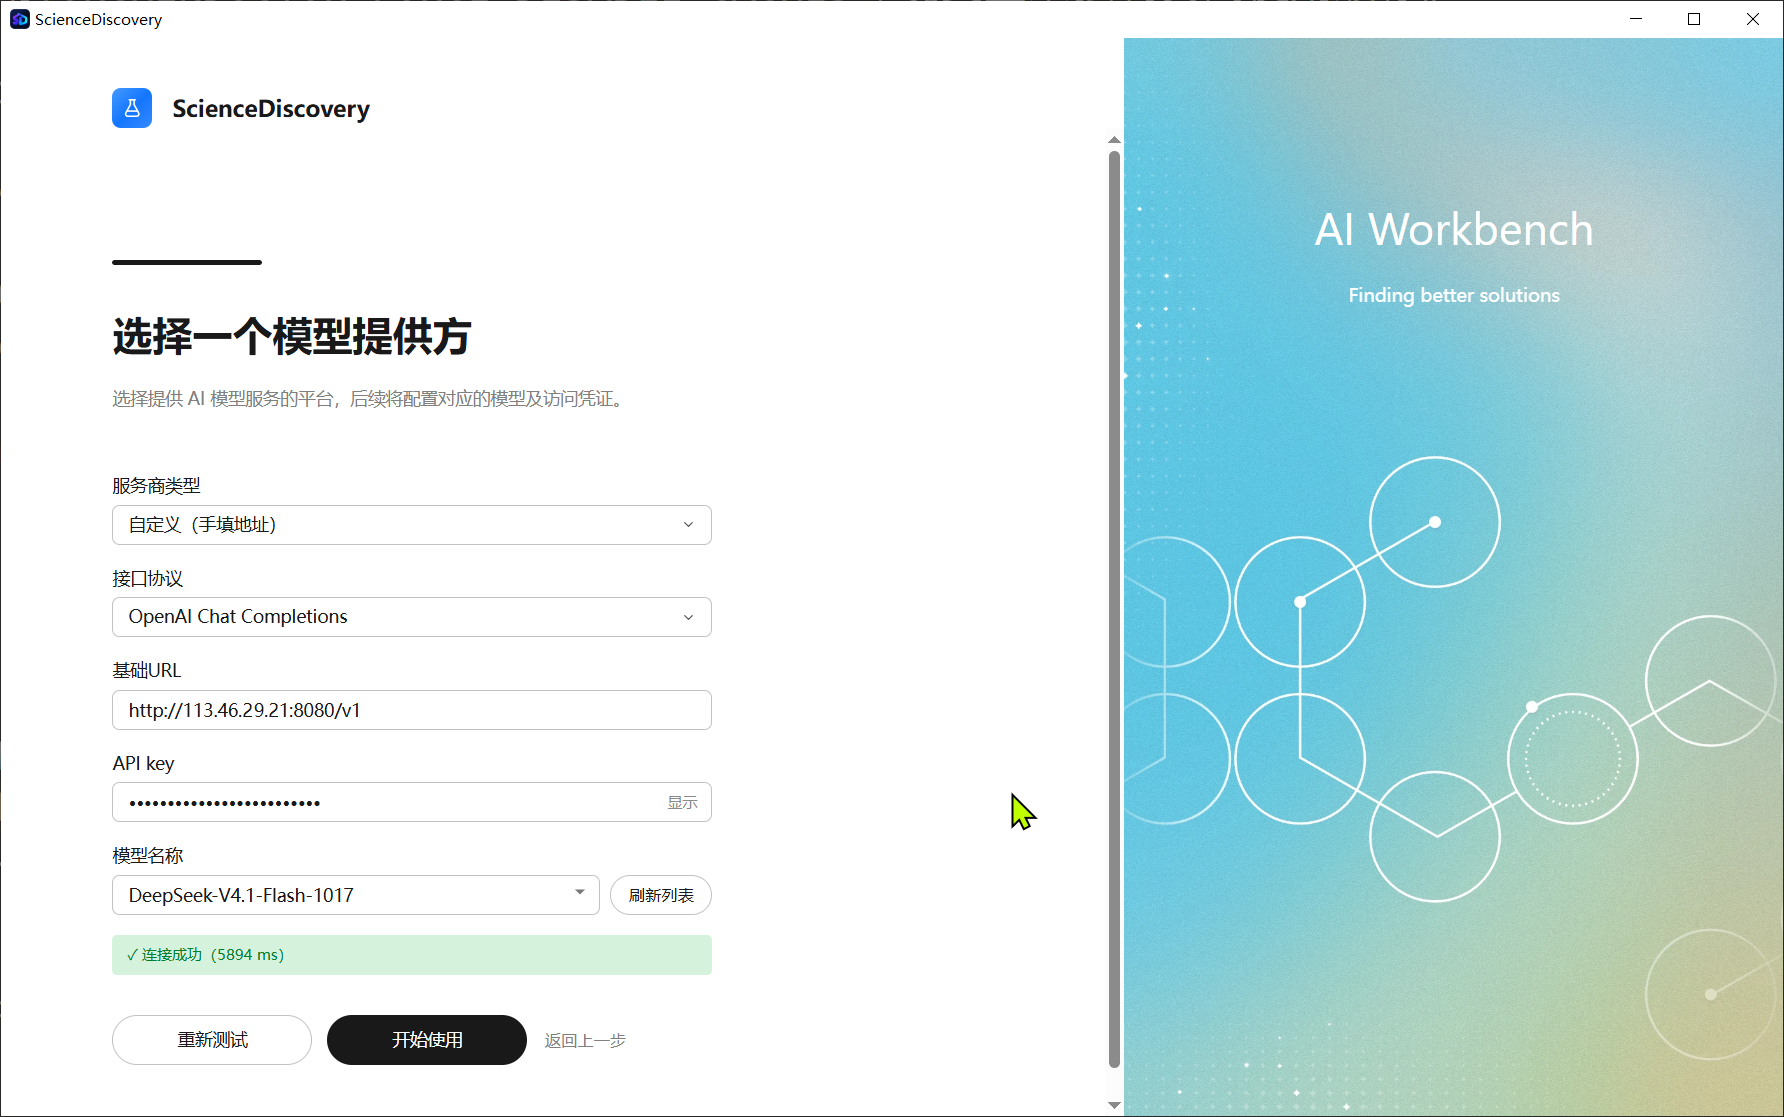
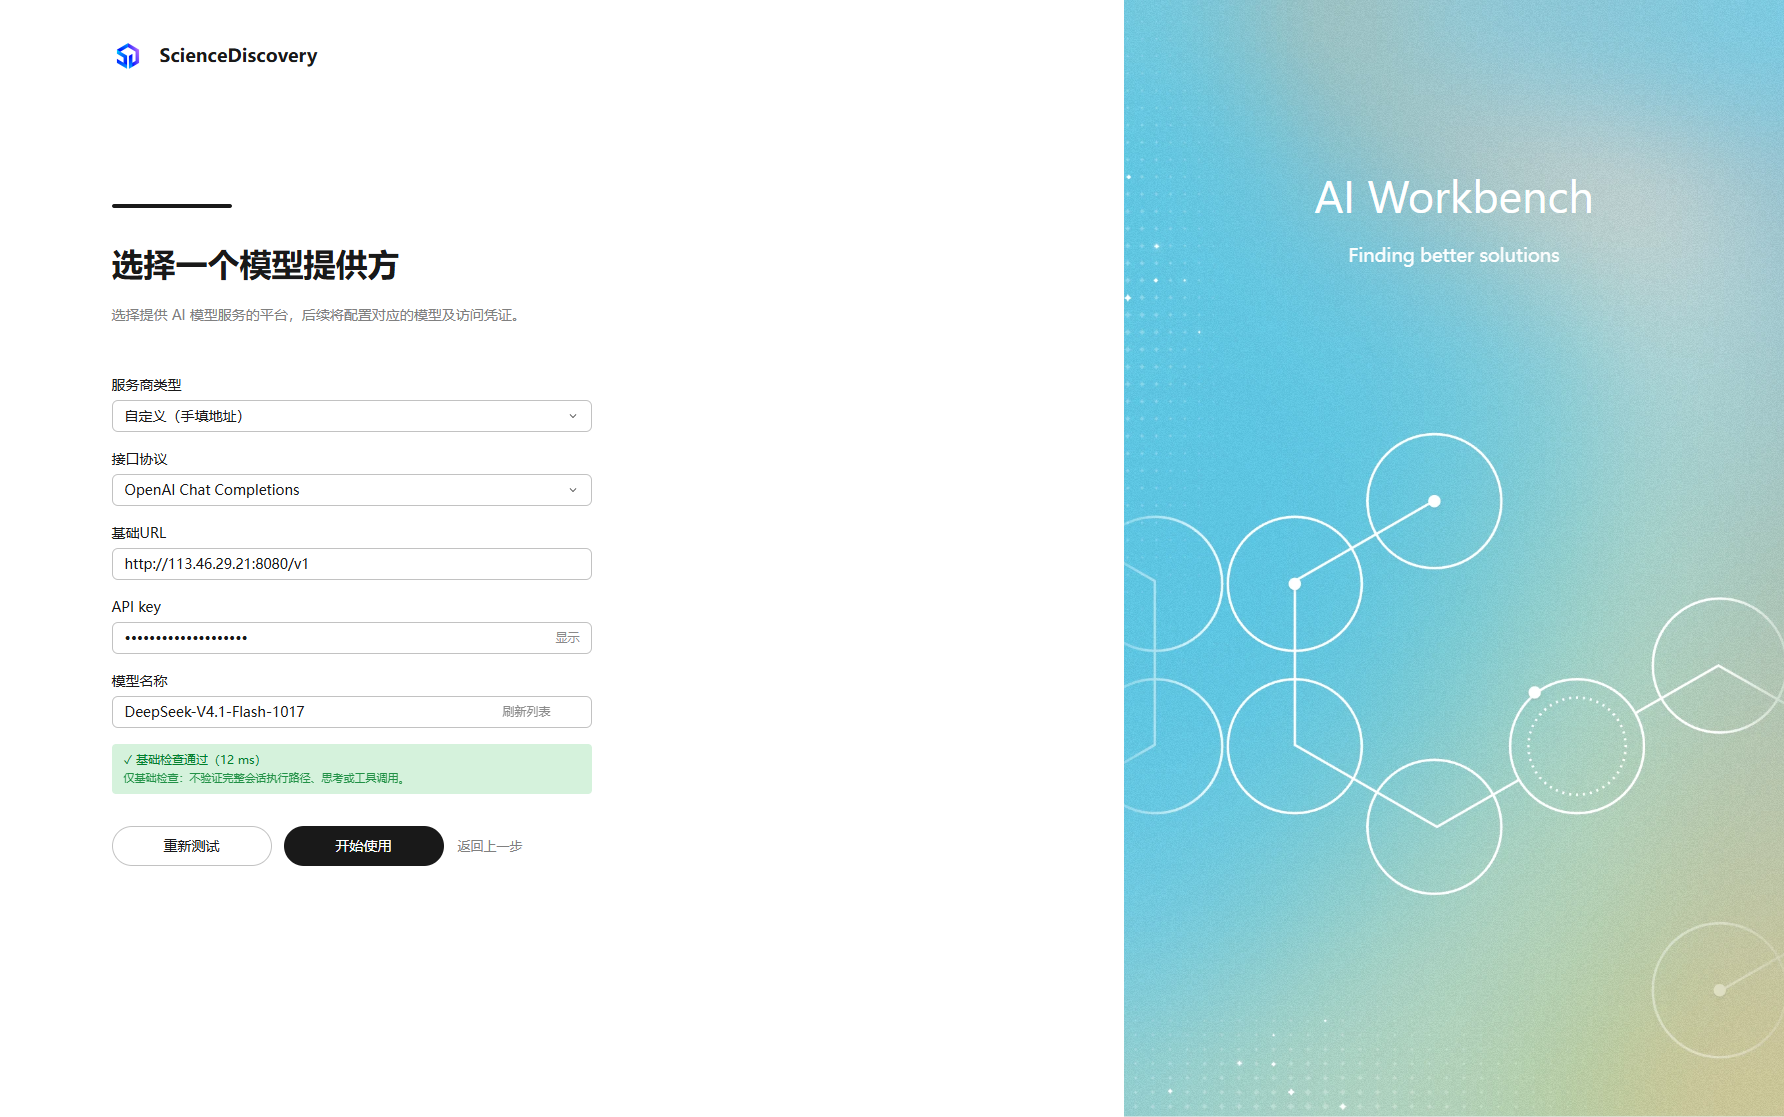
fix(web,desktop): address review - visible caveat on settings surfaces, docs, screenshots
Review follow-up for PR #1055 (issue #824):

- The scope caveat is no longer tooltip-only on the settings surfaces: the
  web model-test button and the desktop model-list probe now render the
  one-line notice as visible text, matching the wizard (reviewer feedback).
- The install guides (en/zh) described the wizard's old "Connection
  succeeded" copy and the screenshot showed the removed string; both guides
  now describe the basic-check wording, and win-11-connected.png was
  regenerated from the desktop app with the new verdict.
- Regression tests assert the visible note in both locales.

Verified: web 255/255, desktop 115/115, docs:lint + docs:links clean,
typecheck clean on both apps.

Refs openJiuwen-ai/sciencediscovery#824

diff --git a/apps/web/src/i18n/messages.ts b/apps/web/src/i18n/messages.ts
@@ -1028,6 +1028,8 @@ export const en = {
   "settings.modelTest.saveFirstDetail": "Save the current model changes before testing",
   "settings.modelTest.successDetail": "Basic connection check passed in {latency} ms: the provider answered one minimal request. This does not verify the full session run path, thinking, or tool use. Click to test again.",
   "settings.modelTest.matrixSuccessDetail": "Compatibility check finished in {latency} ms; per-protocol outcomes are listed below. Neither the basic nor the full compatibility check proves complete session-run readiness. Click to test again.",
+  "settings.modelTest.basicScopeNote": "Basic check only: one minimal request. It does not verify the full session run path, thinking, or tool use.",
+  "settings.modelTest.matrixScopeNote": "Per-protocol observations only; a full session run is not proven.",
   "settings.modelTest.missingTokenDetail": "Save an API key before testing. Click to test again after saving.",
   "settings.modelTest.authorizationDetail": "The API key is invalid or lacks permission. Click to test again.",
   "settings.modelTest.notFoundDetail": "Check the base URL and model ID, then click to test again.",
@@ -4221,6 +4223,8 @@ export const zhCN: Partial<Record<MessageKey, string>> = {
   "settings.modelTest.saveFirstDetail": "请先保存当前模型配置的修改，再进行测试",
   "settings.modelTest.successDetail": "基础连接检查通过，耗时 {latency} ms：服务商应答了一次最小请求。该检查不验证完整会话执行路径、思考或工具调用。点击可重新测试。",
   "settings.modelTest.matrixSuccessDetail": "兼容性检查完成，耗时 {latency} ms，各协议结果见下方列表。基础检查与完整兼容性检查均不能证明会话可完整运行。点击可重新测试。",
+  "settings.modelTest.basicScopeNote": "仅基础检查：一次最小请求，不验证完整会话执行路径、思考或工具调用。",
+  "settings.modelTest.matrixScopeNote": "仅为各协议观察结果，不能证明会话可完整运行。",
   "settings.modelTest.missingTokenDetail": "请先保存 API Key，保存后可点击重新测试。",
   "settings.modelTest.authorizationDetail": "API Key 无效或没有调用权限。点击可重新测试。",
   "settings.modelTest.notFoundDetail": "请检查基础 URL 和模型 ID。点击可重新测试。",

diff --git a/apps/web/tests/ModelConnectivityButton.test.tsx b/apps/web/tests/ModelConnectivityButton.test.tsx
@@ -252,6 +252,9 @@ for (const locale of ['zh-CN', 'en'] as const) test(`a successful basic probe is
   assert.match(detail, locale === 'zh-CN' ? /不验证完整会话执行路径、思考或工具调用/ : /does not verify the full session run path, thinking, or tool use/);
   assert.doesNotMatch(label, locale === 'zh-CN' ? /^可用/ : /^Ready\b/);
   assert.doesNotMatch(detail, locale === 'zh-CN' ? /连接成功，耗时/ : /^Connection succeeded/);
+  // The caveat is visible text, not tooltip-only (issue #824 review).
+  const rendered = JSON.stringify(renderer!.toJSON());
+  assert.match(rendered, locale === 'zh-CN' ? /仅基础检查：一次最小请求/ : /Basic check only: one minimal request/);
   await act(async () => renderer!.unmount());
 });
 
@@ -265,5 +268,6 @@ test('a successful full compatibility check gets its own verdict without claimin
   await act(async () => { renderer!.root.findByType('button').props.onClick(); await Promise.resolve(); });
   assert.match(buttonText(renderer!), /兼容性检查完成 · 42 ms/);
   assert.match(renderer!.root.findByType('button').props.title, /均不能证明会话可完整运行/);
+  assert.match(JSON.stringify(renderer!.toJSON()), /仅为各协议观察结果，不能证明会话可完整运行/);
   await act(async () => renderer!.unmount());
 });

diff --git a/apps/web/src/ModelConnectivityButton.tsx b/apps/web/src/ModelConnectivityButton.tsx
@@ -151,6 +151,14 @@ export function ModelConnectivityButton({
       {icon}
       <span aria-live="polite">{label}</span>
     </button>
+    {/* A reader who never hovers still has to see what a pass does not prove
+      (issue #824): the caveat under the button is the same one the wizard
+      shows as visible text. */}
+    {state.status === "result" && state.result.ok ? (
+      <small className="model-test-scope-note" role="note">
+        {t(scope === "matrix" ? "settings.modelTest.matrixScopeNote" : "settings.modelTest.basicScopeNote")}
+      </small>
+    ) : null}
     {state.status === "result" && state.result.protocols ? <div role="status" className="model-compatibility-results">
       <p>{t("settings.modelTest.selectionUnchanged")}</p>
       <ul>{state.result.protocols.map(p => <li key={p.apiProtocol}>

diff --git a/apps/web/src/styles/settings.css b/apps/web/src/styles/settings.css
@@ -1012,6 +1012,9 @@
 .provider-row-test { flex-wrap: wrap; min-width: 0; max-width: 100%; }
 .model-compatibility-check { display: flex; flex-wrap: wrap; gap: 6px; min-width: 0; max-width: 100%; align-items: center; }
 .model-compatibility-check label { white-space: normal; overflow-wrap: anywhere; font-size: 12px; color: var(--text-secondary); }
+/* What a pass does not prove, visible without hovering (issue #824): full
+   row width under the button, same treatment as the wizard's notice. */
+.model-test-scope-note { flex-basis: 100%; min-width: 0; font-size: 11px; color: var(--text-secondary); }
 .model-compatibility-results { flex-basis: 100%; min-width: 0; overflow-wrap: anywhere; font-size: 12px; }
 .model-compatibility-results ul { margin: 4px 0; padding-left: 18px; }
 

diff --git a/apps/desktop/src/views/settings/ModelSettings.tsx b/apps/desktop/src/views/settings/ModelSettings.tsx
@@ -191,6 +191,11 @@ export function ModelSettings({ actions, adding, client, onAddingChange, state }
                         title={probeResult.ok ? TEXT.settings.model.testOkNotice : undefined}
                       >
                         {" · "}{probeResult.text}
+                        {/* Visible, not tooltip-only: a reader who never hovers
+                          still sees what the pass does not prove (#824). */}
+                        {probeResult.ok ? (
+                          <em className="model-row-probe-note">{" · "}{TEXT.settings.model.testOkNotice}</em>
+                        ) : null}
                       </span>
                     ) : null}
                   </small>

diff --git a/apps/desktop/src/styles/design.css b/apps/desktop/src/styles/design.css
@@ -4308,6 +4308,11 @@ body.is-resizing {
 .model-row-probe {
   color: #8c8c8c;
 }
+.model-row-probe .model-row-probe-note {
+  color: #8c8c8c;
+  font-style: normal;
+  opacity: 0.85;
+}
 
 .model-row-actions {
   display: flex;

diff --git a/docs/en/getting-started/deployment.md b/docs/en/getting-started/deployment.md
@@ -56,12 +56,14 @@ Then select **Test and continue**.
 
 ![A custom provider](../../images/install/win-10-provider-custom.png)
 
-### Connection succeeds
+### Basic connection check passed
 
-On success the wizard shows **Connection succeeded** with the round-trip time. Select **Start using** to open
-the main window. If the test fails, check the API key, base URL and model name, then select **Test again**.
+On success the wizard shows **Basic check passed** with the round-trip time, plus a note that this basic check only
+confirms the provider answers a minimal request — it does not verify the full session run path, thinking, or tool use.
+Select **Start using** to open the main window. If the test fails, check the API key, base URL and model name, then
+select **Test again**.
 
-![Connection succeeded](../../images/install/win-11-connected.png)
+![Basic connection check passed](../../images/install/win-11-connected.png)
 
 ![Main window](../../images/install/win-12-home.png)
 

diff --git a/docs/zh/getting-started/deployment.md b/docs/zh/getting-started/deployment.md
@@ -52,12 +52,12 @@ Anthropic、Google Gemini、SiliconFlow、OpenRouter、Ollama 等）；如果要
 
 ![自定义服务商](../../images/install/win-10-provider-custom.png)
 
-### 连接成功
+### 基础连接检查通过
 
-测试通过后窗口会显示 **连接成功** 和耗时。点击 **开始使用** 进入主界面；
-如果失败，先核对 API Key、基础 URL 和模型名称，再点 **重新测试**。
+测试通过后窗口会显示 **基础检查通过** 和耗时，并注明该基础检查仅确认服务商可应答最小请求，不验证完整会话执行路径、
+思考或工具调用。点击 **开始使用** 进入主界面；如果失败，先核对 API Key、基础 URL 和模型名称，再点 **重新测试**。
 
-![连接成功](../../images/install/win-11-connected.png)
+![基础连接检查通过](../../images/install/win-11-connected.png)
 
 ![主界面](../../images/install/win-12-home.png)
 
